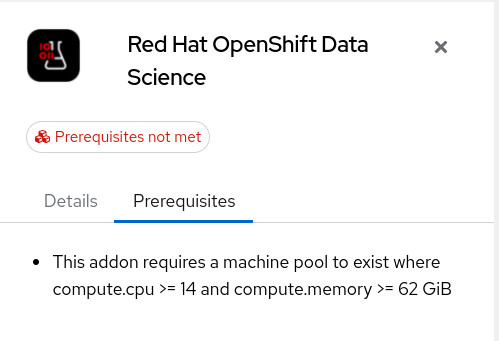
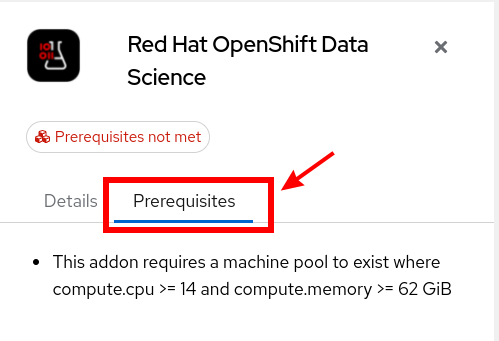
[CI] Publish Documentation for 16c5a624ddc71580b30de6ebeb8783835a24c717 - 16c5a624ddc71580b30de6ebeb8783835a24c717 🚀

Changed region(s): [[0.1804, 0.4399, 0.6914, 0.7038]]

diff --git a/fasttrack-to-rhods/main/04-install.rhods.html b/fasttrack-to-rhods/main/04-install.rhods.html
@@ -179,51 +179,126 @@ Display detailed instructions:
 </div>
 </div>
 <div class="sect1">
-<h2 id="_minimum_requirements_and_machine_pools"><a class="anchor" href="#_minimum_requirements_and_machine_pools"></a>Minimum Requirements and Machine Pools</h2>
+<h2 id="_locate_the_rhods_add_on"><a class="anchor" href="#_locate_the_rhods_add_on"></a>Locate the RHODS Add-on</h2>
 <div class="sectionbody">
-<div class="olist arabic">
-<ol class="arabic">
+<div class="ulist">
+<ul>
 <li>
-<p>if you see this</p>
+<p>Select your Cluster in the list</p>
+</li>
+<li>
+<p>Navigate to the <strong>Add-ons</strong> tab</p>
+</li>
+<li>
+<p>You should the the <strong>Red Hat OpenShift Data Science</strong> add-on</p>
+<div class="paragraph">
+<p><span class="image"><img src="_images/rhods.addon.tile.png" alt="notmet"></span></p>
+</div>
+</li>
+</ul>
+</div>
+</div>
+</div>
+<div class="sect1">
+<h2 id="_prerequisites_not_met"><a class="anchor" href="#_prerequisites_not_met"></a>Prerequisites not met</h2>
+<div class="sectionbody">
+<div class="ulist">
+<ul>
+<li>
+<p>It is possible that your cluster does not meet the pre-requisites.</p>
+</li>
+<li>
+<p>If that is the case, the RHODS add-on will look like:</p>
 <div class="paragraph">
 <p><span class="image"><img src="_images/rhods.addon.prereq.not.met.png" alt="notmet"></span></p>
 </div>
 </li>
 <li>
-<p>click on the tile</p>
-</li>
-<li>
-<p>if it says this:</p>
+<p>Clicking on the add-on and choosing the <strong>Prerequisite</strong> tab should display more details:</p>
 <div class="paragraph">
-<p><span class="image"><img src="_images/prereq.details.png" alt="notmet"></span></p>
+<p><span class="image"><img src="_images/prereq.details.png" alt="notmet" height=".align=left"></span></p>
 </div>
 </li>
 <li>
-<p>you need to add a machine pool</p>
+<p>In a case such as this one, you would have to add more machines to the cluster.</p>
 </li>
-</ol>
+</ul>
+</div>
+<div class="paragraph">
+<p> <details><summary> 
+Click here if you need help on how to add a new MachinePool for RHODS
+ </summary><div> </p>
+</div>
+<div class="ulist">
+<ul>
+<li>
+<p>Go to the <strong>Machine Pool</strong> tab</p>
+</li>
+<li>
+<p>Click <strong>Add Machine Pool</strong></p>
+</li>
+<li>
+<p>Machine Pool Name: <code>m5-2xlarge</code></p>
+</li>
+<li>
+<p>Worker Node Instance Type: Select in the Drop Down &#8594; <code>m5.2xlarge</code></p>
+</li>
+<li>
+<p>Select the <code>Enable Auto-Scaling</code> Option</p>
+</li>
+<li>
+<p>Enter <code>0</code> as minimum</p>
+</li>
+<li>
+<p>Enter <code>2</code> as maximum</p>
+</li>
+<li>
+<p>Click <strong>Add Machine Pool</strong></p>
+</li>
+</ul>
+</div>
+<div class="paragraph">
+<p> </div></details> </p>
 </div>
 </div>
 </div>
 <div class="sect1">
 <h2 id="_install"><a class="anchor" href="#_install"></a>Install</h2>
 <div class="sectionbody">
-
+<div class="paragraph">
+<p>If your cluster meets the minimum prerequisites, you can move on to the Installation part:</p>
 </div>
-</div>
-<div class="sect1">
-<h2 id="_final_state"><a class="anchor" href="#_final_state"></a>Final state</h2>
-<div class="sectionbody">
 <div class="ulist">
 <ul>
 <li>
-<p>This is what the result should look like:</p>
+<p>Click the RHODS add-on</p>
+</li>
+<li>
+<p>Click the <strong>Install</strong> Button</p>
 <div class="paragraph">
-<p><span class="image"><img src="_images/installed.rhods.addon.png" alt="installed"></span></p>
+<p><span class="image"><img src="_images/install.rhods.png" alt="notmet" width=".border='solid 1px'" height=".align=left"></span></p>
 </div>
 </li>
 <li>
-<p>And now you should be done</p>
+<p>Enter your email address</p>
+<div class="paragraph">
+<p><span class="image"><img src="_images/rhods.email.png" alt="email" width=".align=left"></span></p>
+</div>
+</li>
+<li>
+<p>And click <strong>Install</strong></p>
+</li>
+<li>
+<p>The Add-on is now installing. This should last around 30-45 minutes</p>
+<div class="paragraph">
+<p><span class="image"><img src="_images/rhods.installing.png" alt="email" width=".align=left"></span></p>
+</div>
+</li>
+<li>
+<p>Wait until the Add-on is fully <strong>Installed</strong></p>
+<div class="paragraph">
+<p><span class="image"><img src="_images/installed.rhods.addon.png" alt="installed"></span></p>
+</div>
 </li>
 </ul>
 </div>
